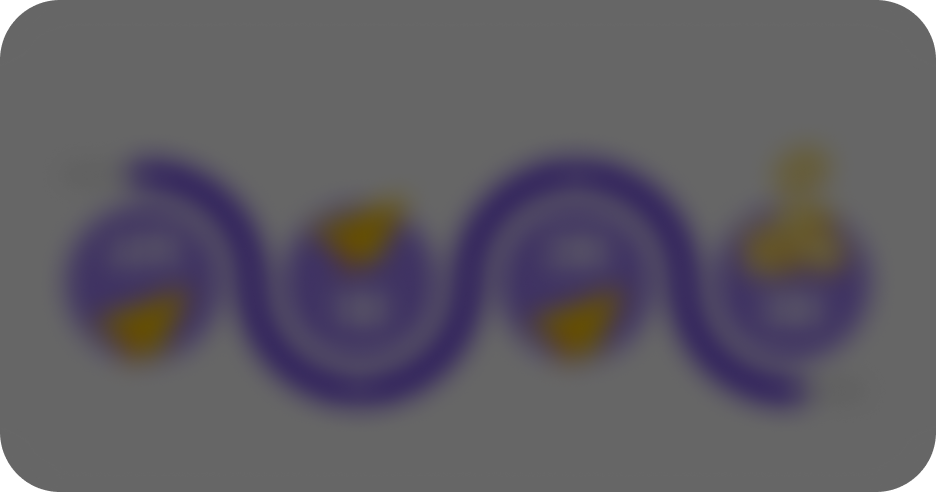
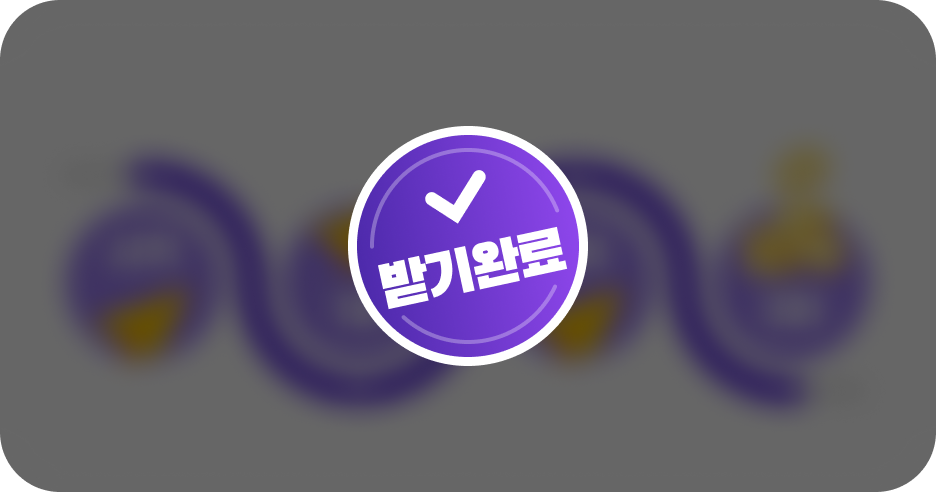
test_event

Changed region(s): [[0.3718, 0.2439, 0.6506, 0.7622]]

diff --git a/html/event_test/WEB-INF/jsp/hnm/mob/nrcHtml/EVE/renewal.html b/html/event_test/WEB-INF/jsp/hnm/mob/nrcHtml/EVE/renewal.html
@@ -62,12 +62,11 @@
                 </div>
                 <div class="event_box">
                   <img src="../../../../../../resources/event/images/renewal_event01_01.jpg" aria-hidden="true" alt="">
-                  <h3 class="screen_out">도전 경품</h3> 
-                  <p class="screen_out">미션을 달성하면 애플 맥북, 아이폰에 자동 응모!</p>
                   <dl>
                     <dt class="screen_out">달성한 미션</dt>
                     <dd class="mission_count">1개</dd> <!-- 달성한 미션 갯수 -->
                   </dl>
+                  <a href="#none" class="event_refresh_btn"><span class="screen_out">달성한 미션 새로고침</span></a>
                   <p class="screen_out">미션 달성 개수에 따라 경품에 응모돼요.</p>
                 </div>
                 <div class="event_box">
@@ -103,41 +102,41 @@
                   <p class="screen_out">※ 경품은 중복 당첨될 수 있어요.</p>
                 </div>
                 <div class="event_box">
-                  <img src="../../../../../../resources/event/images/renewal_event01_04.jpg" aria-hidden="true" alt="">
+                  <img src="../../../../../../resources/event/images/renewal_event01_03.jpg" aria-hidden="true" alt="">
                   <h3 class="screen_out">도전 미션!</h3> 
-                  <p class="screen_out">새로워진 서비스 체험하고 미션을 달성해주세요!</p>
-                  <p class="screen_out">5개 이상 참여하시면 모든 선물에 응모돼요!</p>
+                  <p class="screen_out">새로워진 서비스 체험하기</p>
                 </div>
                 <div class="event_mission_link">
                   <div class="event_link_box bg01 complete"> <!-- 미션완료 시 complete 추가 -->
                     <h3>무료적립</h3>
-                    <p>이제 이 곳에서<br>모든 무료적립에 참여할 수 있어요!</p>
-                    <button type="button" disabled>무료적립으로 500 하나머니 모으기</button>
+                    <p>하나머니는 여기서 다 모아요!</p>
+                    <button type="button">500 하나머니 모으기</button>
                   </div>
                   <div class="event_link_box bg02"> <!-- 미션완료 시 complete 추가 -->
                     <h3>마이페이지</h3>
-                    <p>내 쿠폰, 머니활동 살펴보고<br>뱃G를 모아보세요!</p>
-                    <button type="button">뱃G 1개 이상 획득하기</button>
+                    <p>머니활동으로 뱃G를 모아보세요.</p>
+                    <button type="button">뱃G 획득하기</button>
                   </div>
                   <div class="event_link_box bg03"> <!-- 미션완료 시 complete 추가 -->
                     <h3>출석체크 기분 공유</h3>
-                    <p>오늘 기분을 친구와 공유해요.<br>1만 하나머니 기회까지!</p>
-                    <button type="button">오늘의 기분 친구와 공유하기</button>
+                    <p>기분 출석으로 안부를 주고 받아요.</p>
+                    <button type="button">친구와 기분 공유하기</button>
                   </div>
                   <div class="event_link_box bg04"> <!-- 미션완료 시 complete 추가 -->
                     <h3>함께 걷고 머니 쌓기</h3>
-                    <p>걸음수 대결에서 이기면<br>하나머니를 더 드려요!</p>
+                    <p>걸음수 대결하고 하나머니 받아요.</p>
                     <button type="button">함께 걷기 시작하기</button>
                   </div>
                   <div class="event_link_box bg05"> <!-- 미션완료 시 complete 추가 -->
                     <h3>머니로그#</h3>
-                    <p>하나머니에서 가입하면<br>더 큰 혜택을 드려요!</p>
-                    <button type="button">구경하고 10하나머니 1회 적립받기</button>
+                    <p>가입하면 하나머니 혜택이!</p>
+                    <button type="button"><span class="point_icon">찾고 적립받기</span></button>
                   </div>
                   <div class="event_link_box bg06"> <!-- 미션완료 시 complete 추가 -->
                     <h3>차액충전</h3>
-                    <p>국내 결제 시 부족한 하나머니는<br>계좌에서 바로 충전돼요.</p>
+                    <p>결제할 때 하나머니 잔액 걱정마세요.</p>
                     <button type="button">차액충전 설정하기</button>
+                    <span class="bottom_info">이벤트 종료일까지 유지해주세요.</span>
                   </div>
                 </div>
               </div>
@@ -239,15 +238,17 @@
                       <p class="screen_out">공유 2회</p>
                     </div>
                     <div class="img_step3">
-                      <img src="../../../../../../resources/event/images/img_share_step3.png" aria-hidden="true" alt="">
-                      <p class="screen_out">공유 3회 100 하나머니 받기</p>
+                      <a href="#none">
+                        <img src="../../../../../../resources/event/images/img_share_step3.png" aria-hidden="true" alt="">
+                        <p class="screen_out">공유 3회 100 하나머니 받기</p>
+                      </a>
                     </div>
                     <div class="img_step4">
                       <img src="../../../../../../resources/event/images/img_share_step4.png" aria-hidden="true" alt="">
                       <p class="screen_out">받기완료</p>
                     </div>
                   </div>
-                  <a href="#none" class="event_refresh_btn">새로고침</a>
+                  <a href="#none" class="event_refresh_btn2">새로고침</a>
                 </div>
                 <div class="event_box">
                   <img src="../../../../../../resources/event/images/renewal_event03_01.jpg" aria-hidden="true" alt="">
@@ -261,7 +262,7 @@
               </div>
               <div class="renewal_event_notice">
                 <img src="../../../../../../resources/event/images/renowal_notice.jpg" aria-hidden="true" alt="">
-                <h2 class="screen_out"></h2>
+                <h2 class="screen_out">알려드려요.</h2>
                 <dl class="screen_out">
                   <dt>1. 도전! 맥북</dt>
                   <dd>경품 제공일: 2023.09.00 (경품가액 5만 원 초과 경품 제외)</dd>
@@ -313,7 +314,8 @@
   .renewal_event_tab li a {display: block; width: 100%; padding: 0.4rem 0; color: #4A28A7; font-size: 1.3rem; line-height: 1.2; letter-spacing: -0.065rem; font-family:'Gmarket'; font-weight: 700;}
   .renewal_event_tab li.on a {border-radius: 1.4rem; background: #895BE2; box-shadow: 0 0.4rem 0.8rem 0 rgba(74, 40, 167, 0.25); color: #fff;}
   .renewal_event01 {margin-top: -2rem;}
-  .renewal_event01 .mission_count {position: absolute; right: calc(228 / var(--width) * 100%); bottom: calc(159 / 609 * 100%); font-size: 2rem; font-weight: 700; line-height: 1.28; letter-spacing: -0.1rem;}
+  .renewal_event01 .mission_count {position: absolute; right: calc(264 / var(--width) * 100%); bottom: calc(120 / 246 * 100%); font-size: 2rem; font-weight: 700; line-height: 1.28; letter-spacing: -0.1rem;}
+  .renewal_event01 .event_refresh_btn {position: absolute; right: calc(168 / var(--width) * 100%); bottom: calc(123 / 246 * 100%); width: 2.4rem; height: 2.4rem; background: url('../../../../../../resources/event/images/btn_icon_refresh.png') no-repeat center; background-size: 2.4rem;}
   .renewal_event01 .wrap_gift {position: absolute; top: 0; left: calc(120 / var(--width) * 100%); right: calc(120 / var(--width) * 100%); padding: 0 0 calc(1152 / var(--width) * 100%);}
   .renewal_event01 .wrap_gift .inner_box {position: absolute; top: calc(24 / 1372 * 100%); left: 0; width: 100%; height: 100%; display: flex; flex-wrap: wrap; align-items: flex-start;}
   .renewal_event01 .wrap_gift .inner_box > div {padding: 0 calc(24 / var(--width) * 100%) 0; width: 50%; height: 50%;}
@@ -325,10 +327,14 @@
   .event_link_box {margin-top: 3.2rem; padding: 3.2rem 2.4rem 2.4rem; border-radius: 3.2rem; background: #E4FFFD;}
   .event_link_box h3,
   .event_link_box button {font-family:'Gmarket'; font-weight: 700;}
-  .event_link_box p {font-family:'Gmarket'; font-weight: 400;}
+  .event_link_box p,
+  .event_link_box .bottom_info {font-family:'Gmarket'; font-weight: 400;}
   .event_link_box h3 {font-size: 2rem; line-height: 1.28; letter-spacing: -0.1rem;}
   .event_link_box p {margin-top: 0.4rem; color: #555; font-size: 1.4rem; line-height: 1.28; letter-spacing: -0.07rem;}
-  .event_link_box button {margin-top: 1.6rem; height: 4.4rem; padding: 0 1.4rem; width: 100%; border-radius: 24rem; background: linear-gradient(135deg, #60D3DA 0%, #7144F0 73.61%, #8C4EDA 100%); box-shadow: 0 0 0 0 rgba(74, 40, 167, 0.20), 0 0.1rem 0.3rem 0 rgba(74, 40, 167, 0.20), 0 0.5rem 0.5rem 0 rgba(74, 40, 167, 0.17), 0 1.1rem 0.7rem 0 rgba(74, 40, 167, 0.10), 0 2.0 0.8rem 0 rgba(74, 40, 167, 0.03), 0 3.1rem 0.9rem 0 rgba(74, 40, 167, 0.00); color: #fff; font-size: 1.6rem; letter-spacing: -0.08rem; word-break: keep-all;}
+  .event_link_box .bottom_info {display: block; margin-top: 0.8rem; color: #69777E; text-align: center; font-size: 1.2rem; line-height: 1.28; letter-spacing: -0.06rem;}
+  .event_link_box button {margin-top: 1.6rem; height: 4.4rem; padding: 0 1.4rem; width: 100%; border-radius: 24rem; background: linear-gradient(135deg, #60D3DA 0%, #7144F0 73.61%, #8C4EDA 100%); box-shadow: 0 0 0 0 rgba(74, 40, 167, 0.20), 0 0.1rem 0.3rem 0 rgba(74, 40, 167, 0.20), 0 0.5rem 0.5rem 0 rgba(74, 40, 167, 0.17), 0 1.1rem 0.7rem 0 rgba(74, 40, 167, 0.10), 0 2.0 0.8rem 0 rgba(74, 40, 167, 0.03), 0 3.1rem 0.9rem 0 rgba(74, 40, 167, 0.00); color: #fff; font-size: 1.8rem; letter-spacing: -0.09rem; word-break: keep-all;}
+  .event_link_box button .point_icon {position: relative; padding-left: 5.6rem;}
+  .event_link_box button .point_icon::before {content: ''; position: absolute; left: 0; top: -0.2rem; width: 4.8rem; height: 2.1rem; background: url('../../../../../../resources/event/images/img_point.png') no-repeat left center; background-size: 4.8rem;}
   .event_link_box.bg01 {position: relative; background: #E4FFFD;}
   .event_link_box.bg02 {position: relative; background: #F3EBFE;}
   .event_link_box.bg03 {position: relative; background: #FEEEEB;}
@@ -344,7 +350,8 @@
   .event_link_box.complete {background: #F9F9F9;}
   .event_link_box.complete::before {content:''; position: absolute; top: -1.6rem; right: 1.6rem; width: 8rem; height: 8rem; background: url('../.../../../../../../../resources/event/images/ico_complete2.png') no-repeat top center; background-size: 100%;}
   .event_link_box.complete h2,
-  .event_link_box.complete p {color: #69777E;}
+  .event_link_box.complete p,
+  .event_link_box.complete span {color: #69777E; opacity: 0.8;}
   .event_link_box.complete button {background: #9DAAB0; box-shadow: 0 0 0 0 rgba(157, 170, 176, 0.20), 0 0.1rem .3rem 0 rgba(157, 170, 176, 0.20), 0 .5rem .5rem 0 rgba(157, 170, 176, 0.17), 0 1.1rem .7rem 0 rgba(157, 170, 176, 0.10), 0 2rem .8rem 0 rgba(157, 170, 176, 0.03), 0 3.1rem .9rem 0 rgba(157, 170, 176, 0.00);}
   .event_btn_area {position: absolute; bottom: 0; left: 0; width: 100%; margin-bottom: calc(267 / var(--width) * 100%); padding-bottom: calc(324 / var(--width) * 100%);}
   .event_btn_area > div {display: flex; justify-content: center; align-items: center; flex-direction: column; position: absolute; left: 0; top: 0; width: 100%; height: 100%;}
@@ -366,7 +373,9 @@
   .visual_share .step2 .img_step2 {display: block;}
   .visual_share .step3 .img_step3 {display: block;}
   .visual_share .step4 .img_step4 {display: block;}
-  .event_refresh_btn {position: absolute; top: 0; right: calc(72 / var(--width) * 100%); padding: 0.8rem; padding-right: 3.2rem; background: url('../../../../../../resources/event/images/ico_refresh.jpg') no-repeat right 0.8rem top 0.65rem; background-size: 2.4rem; color: #454545; font-family:'Gmarket'; font-size: 1.3rem; line-height: 2.4rem; letter-spacing: -0.065rem;}
+  .visual_share .step3 + .event_refresh_btn2,
+  .visual_share .step4 + .event_refresh_btn2 {display: none;}
+  .event_refresh_btn2 {position: absolute; top: 0; right: calc(72 / var(--width) * 100%); padding: 0.8rem; padding-right: 3.2rem; background: url('../../../../../../resources/event/images/btn_icon_refresh2.jpg') no-repeat right 0.8rem top 0.65rem; background-size: 2.4rem; color: #454545; font-family:'Gmarket'; font-size: 1.3rem; line-height: 2.4rem; letter-spacing: -0.065rem;}
   .renewal_event03 .event_btn_area {margin-bottom: calc(144 / var(--width) * 100%); padding-bottom: calc(145 / var(--width) * 100%);}
   .renewal_event03 .event_btn_area button {width: calc(936 / var(--width) * 100%); margin: 0;}
   .event_btn_top {position: fixed; bottom: calc(var(--safeBottom) + 3.2rem); right: 2.4rem; opacity: 0; transition: all .5s; z-index: 90;}
